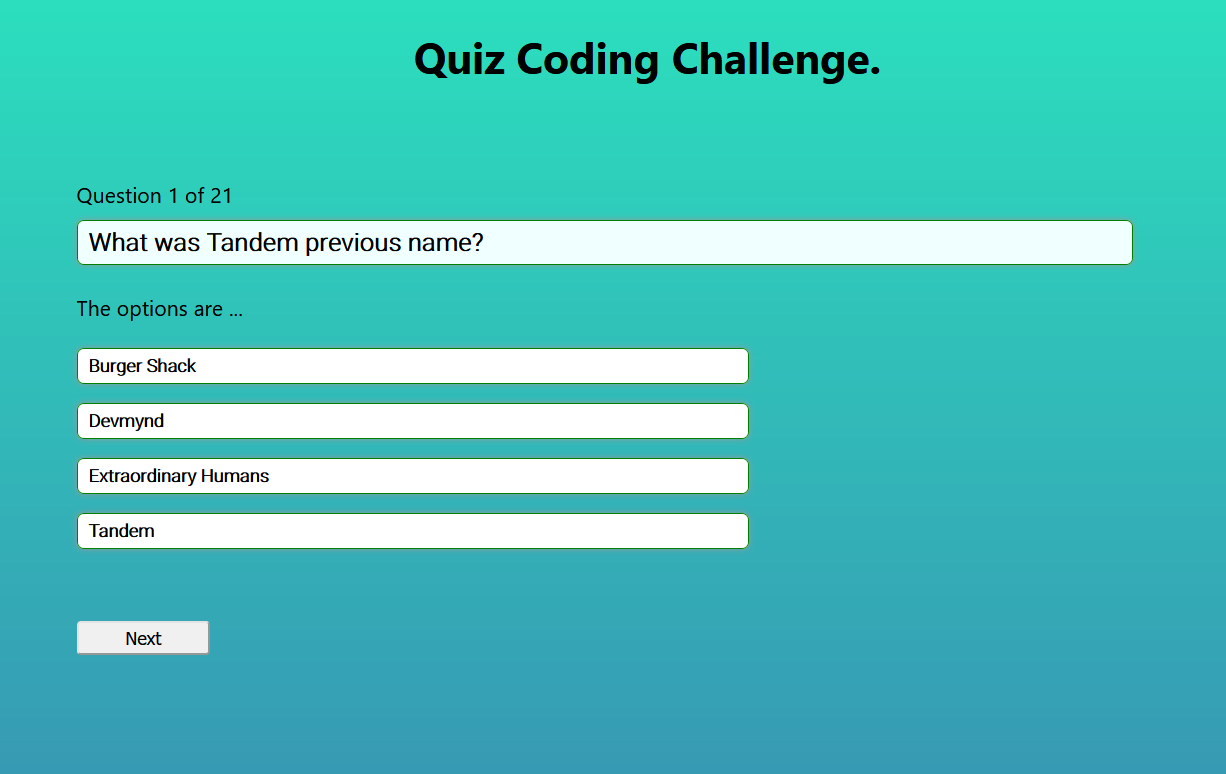
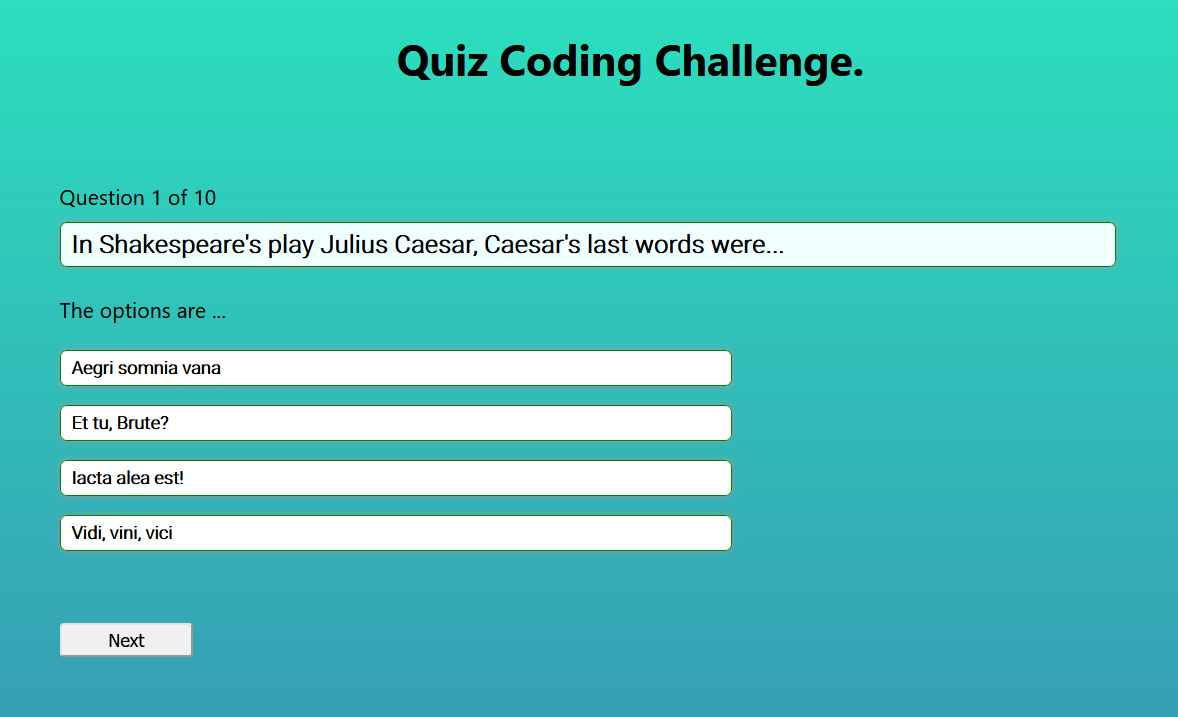
changes for random selection of 10 questions and correct answer alert

Changed region(s): [[0.0306, 0.2455, 0.9474, 0.9205], [0.3362, 0.0307, 0.7334, 0.1227]]

diff --git a/src/App.js b/src/App.js
@@ -6,6 +6,10 @@ import QuizResult from './components/quizResult/QuizResult.js';
 import QuestionAndAnswer from './components/questionAndAnswer/QuestionAndAnswer.js';
 import './App.css';
 
+// const data_other_set = (data01) => {
+//     const data =  data01.sort(() => Math.random() - Math.random()).slice(0, 10)
+//     return data;
+// }
 
 class App extends React.Component {
   state = {
@@ -18,6 +22,7 @@ class App extends React.Component {
   }
 
   componentDidMount() {
+    console.log("Data  :-- ", data)
     const { currentIndex } = this.state;
     this.setState(() => {
       return {
@@ -32,6 +37,7 @@ class App extends React.Component {
   }
 
   nextQuestionHandler = () => {
+    alert(`Correct Answer : - ${this.state.correctAnswer} `)
     const { userAnswer, correctAnswer } = this.state;
     //console.log("userAnswer  : ", userAnswer ,"\ncorrectAnswer : ", correctAnswer)
     if (userAnswer === correctAnswer) {

diff --git a/src/questionData/questionData.js b/src/questionData/questionData.js
@@ -1,5 +1,5 @@
 //Only expressions, functions or classes are allowed as the `default` export.
-export const data = [
+const data01 = [
       {
         "question": "What was Tandem previous name?",
         "incorrect": ["Tandem", "Burger Shack", "Extraordinary Humans"],
@@ -112,3 +112,11 @@ export const data = [
       }
     ]
     
+
+    const data_other_set = (data01) => {
+      const data =  data01.sort(() => Math.random() - Math.random()).slice(0, 10)
+      return data;
+  
+    }
+
+    export const data = data_other_set(data01);

diff --git a/src/components/questionAndAnswer/QuestionAndAnswer.js b/src/components/questionAndAnswer/QuestionAndAnswer.js
@@ -3,6 +3,7 @@ import './QuestionAndAnswer.css';
 import  { data } from '../../questionData/questionData.js';
 
 function QuestionAndAnswer() {
+      console.log(data)
       return (
             <div className = "question-and-answer-main">
                   <h2>Answers...</h2>
